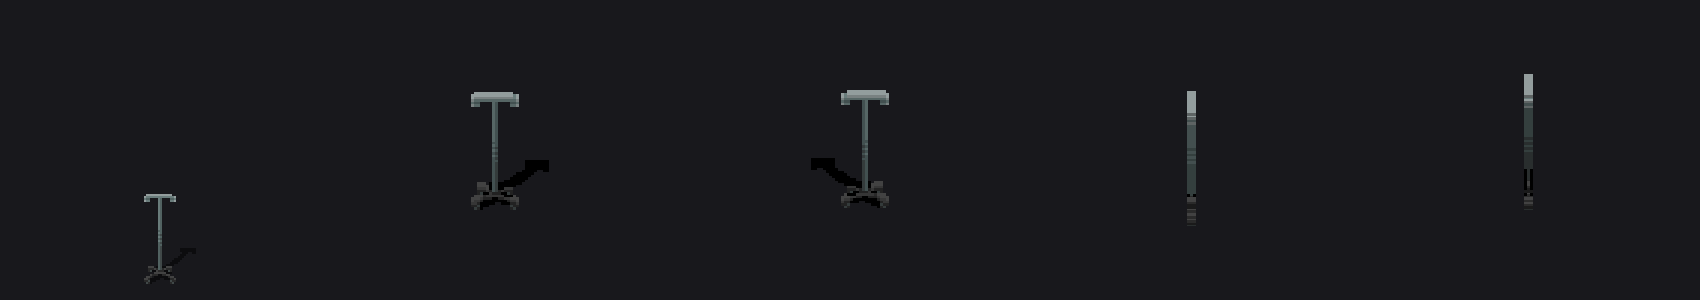
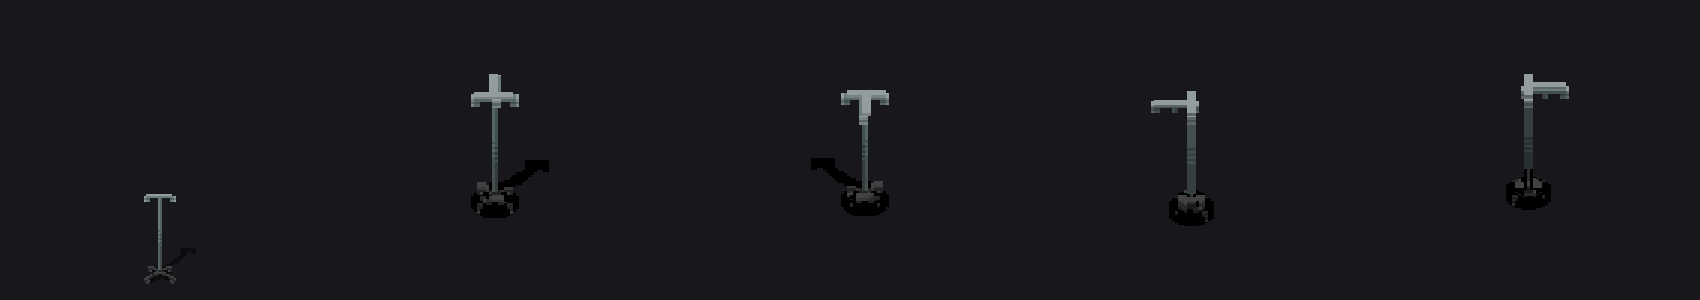
Stands fix: round bases/heads as discs, IV hook bar as cross -- sides no longer flat

diff --git a/crates/voxelizer/src/props.rs b/crates/voxelizer/src/props.rs
@@ -3323,13 +3323,9 @@ pub const REST_SOLID_DEPTH_PINS: &[(&str, u32)] = &[("f_anvil", 7)];
 /// Depths: 2 for chains/ropes/cables, 3 default, 4 for
 /// chunky machines.
 pub const REST_FRAME_PINS: &[(&str, u32)] = &[
-    ("f_IV_pole", 3),
-    ("f_dancing_pole", 3),
     ("f_flagpole", 3),
     ("f_wooden_flagpole", 3),
     ("f_utility_pole", 4),
-    ("f_street_light", 3),
-    ("f_floor_lamp", 3),
     ("f_exodii_lamp", 3),
     ("f_nl_exodii_lamp", 3),
     ("f_machinery_light", 4),
@@ -3349,6 +3345,22 @@ pub const REST_FRAME_PINS: &[(&str, u32)] = &[
     ("f_electrical_conduit", 2),
     ("f_LIXA_electrical_conduit", 4),
     ("f_lane", 3),
+];
+
+/// Stand pins (class D1 fix round): uprights whose
+/// sprite carries ROUND parts -- a caster-star base, a
+/// lamp shade, a dome head. A flat extrusion keeps the
+/// front but the sides collapse to a line (Joey on the
+/// IV stand, 2026-11-17: front and back look good, it
+/// should not be flat). The value is the head treatment:
+/// Cross = the top bar also runs in z (the IV stand's
+/// hooks), Discs = the wide top rows are lathe discs
+/// (shade / lamp head), None = pole top.
+pub const STAND_PINS: &[(&str, u8)] = &[
+    ("f_IV_pole", 1),
+    ("f_street_light", 2),
+    ("f_floor_lamp", 2),
+    ("f_dancing_pole", 0),
 ];
 
 /// Uniform-material pins: the whole model repaints in
@@ -3834,6 +3846,120 @@ fn dish_model(sprite: &RgbaImage) -> Option<PropModel> {
     Some(m)
 }
 
+/// A stand (IV pole, lamps, dancing pole): the pole
+/// extrudes as a post, but the flared base rows (bottom
+/// rows at least 5 wide, up to 6) become per-row discs
+/// -- a caster star or round base reads from every
+/// angle -- and the head follows the pin: a cross for
+/// the IV stand's hook bar, discs for shades and dome
+/// heads (top rows at least 6 wide, up to 7).
+fn stand_model(sprite: &RgbaImage, head_mode: u8) -> Option<PropModel> {
+    let (w, h) = (sprite.width(), sprite.height());
+    let mut rows = (0..h).filter(|&y| (0..w).any(|x| opaque(*sprite.get_pixel(x, y))));
+    let band = rows.next()?..rows.last()? + 1;
+    let fh = band.end - band.start;
+    let width = |y: u32| -> u32 {
+        let r = band.end - 1 - y;
+        let xs: Vec<u32> = (0..w)
+            .filter(|&x| opaque(*sprite.get_pixel(x, r)))
+            .collect();
+        if xs.is_empty() {
+            0
+        } else {
+            xs[xs.len() - 1] - xs[0] + 1
+        }
+    };
+    let mut base_rows = 0u32;
+    while base_rows < 6 && base_rows < fh && width(base_rows) >= 5 {
+        base_rows += 1;
+    }
+    let mut head_rows = 0u32;
+    if head_mode > 0 {
+        while head_rows < 7 && head_rows + base_rows < fh {
+            let y = fh - 1 - head_rows;
+            if width(y) >= 6 {
+                head_rows += 1;
+            } else {
+                break;
+            }
+        }
+    }
+    let zc = 16i32;
+    let mut m = PropModel::new([w, fh, 32]);
+    // Disc rows (base, and head when mode 2): per-row
+    // discs with the row's paint wrapped by quadrant.
+    let disc = |m: &mut PropModel, y: u32| {
+        let r = band.end - 1 - y;
+        let xs: Vec<u32> = (0..w)
+            .filter(|&x| opaque(*sprite.get_pixel(x, r)))
+            .collect();
+        if xs.is_empty() {
+            return;
+        }
+        let (a, b) = (xs[0], xs[xs.len() - 1]);
+        let cx = (a + b) as f32 / 2.0;
+        let rad = (b - a) as f32 / 2.0 + 0.5;
+        for x in 0..w {
+            for z in 0..32u32 {
+                let (dx, dz) = (x as f32 - cx, z as f32 - zc as f32);
+                if dx * dx + dz * dz > rad * rad {
+                    continue;
+                }
+                let sx = if dz.abs() >= dx.abs() {
+                    x.clamp(a, b)
+                } else {
+                    (cx + dz.signum() * dz.abs()).round().clamp(a as f32, b as f32) as u32
+                };
+                m.set(x, y, z, Some(*sprite.get_pixel(sx, r)));
+            }
+        }
+    };
+    for y in 0..fh {
+        let r = band.end - 1 - y;
+        if y < base_rows || (head_mode == 2 && y >= fh - head_rows) {
+            disc(&mut m, y);
+            continue;
+        }
+        // Post rows: structure extrusion 3 deep.
+        for x in 0..w {
+            let px = *sprite.get_pixel(x, r);
+            if !opaque(px) {
+                continue;
+            }
+            if structure(px) {
+                for z in (zc - 1)..=(zc + 1) {
+                    m.set(x, y, z as u32, Some(px));
+                }
+            } else {
+                m.set(x, y, (zc - 1) as u32, Some(px));
+                m.set(x, y, (zc + 1) as u32, Some(px));
+            }
+        }
+        // IV stand head: the hook bar also runs in z
+        // (cross slab over the head rows).
+        if head_mode == 1 && y >= fh - head_rows {
+            let xs: Vec<u32> = (0..w)
+                .filter(|&x| opaque(*sprite.get_pixel(x, r)))
+                .collect();
+            if !xs.is_empty() {
+                let med = xs[xs.len() / 2] as i32;
+                for &x in &xs {
+                    let px = *sprite.get_pixel(x, r);
+                    for dx in [med - 1, med, med + 1] {
+                        if dx >= 0 && (dx as u32) < w {
+                            m.set(dx as u32, y, x, Some(px));
+                        }
+                    }
+                }
+            }
+        }
+    }
+    if m.solid_count() == 0 {
+        return None;
+    }
+    Some(m)
+}
+
 /// The opaque band as a segmentation, with none of
 /// [`seamless_segment`]'s firing criteria — for rest-of-
 /// props pins whose sprites are too thin, sparse, or
@@ -3930,6 +4056,11 @@ pub fn coverage_model(id: &str, sprite: &RgbaImage) -> Option<PropModel> {
     }
     if id == "f_orrery" {
         if let Some(m) = orrery_model(sprite) {
+            return Some(m);
+        }
+    }
+    if let Some(mode) = STAND_PINS.iter().find(|(k, _)| *k == id).map(|(_, m)| *m) {
+        if let Some(m) = stand_model(sprite, mode) {
             return Some(m);
         }
     }
